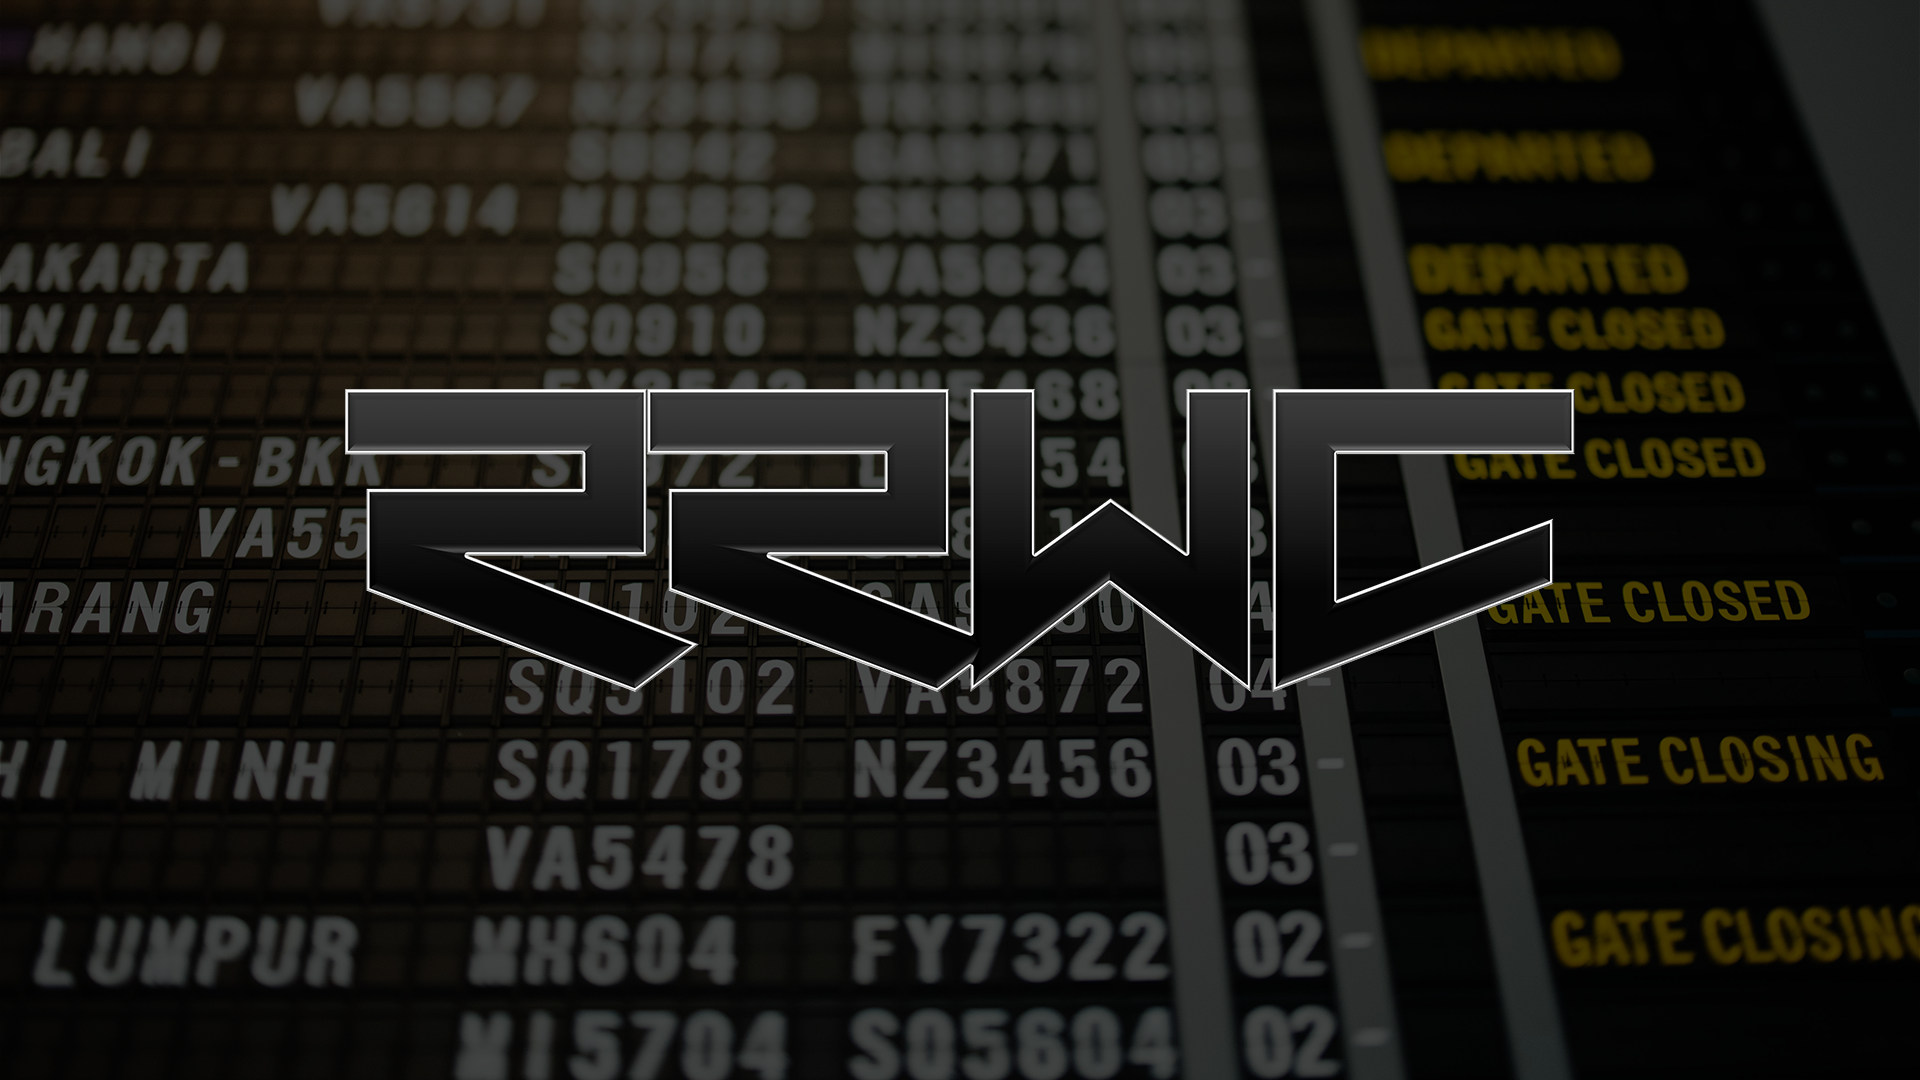
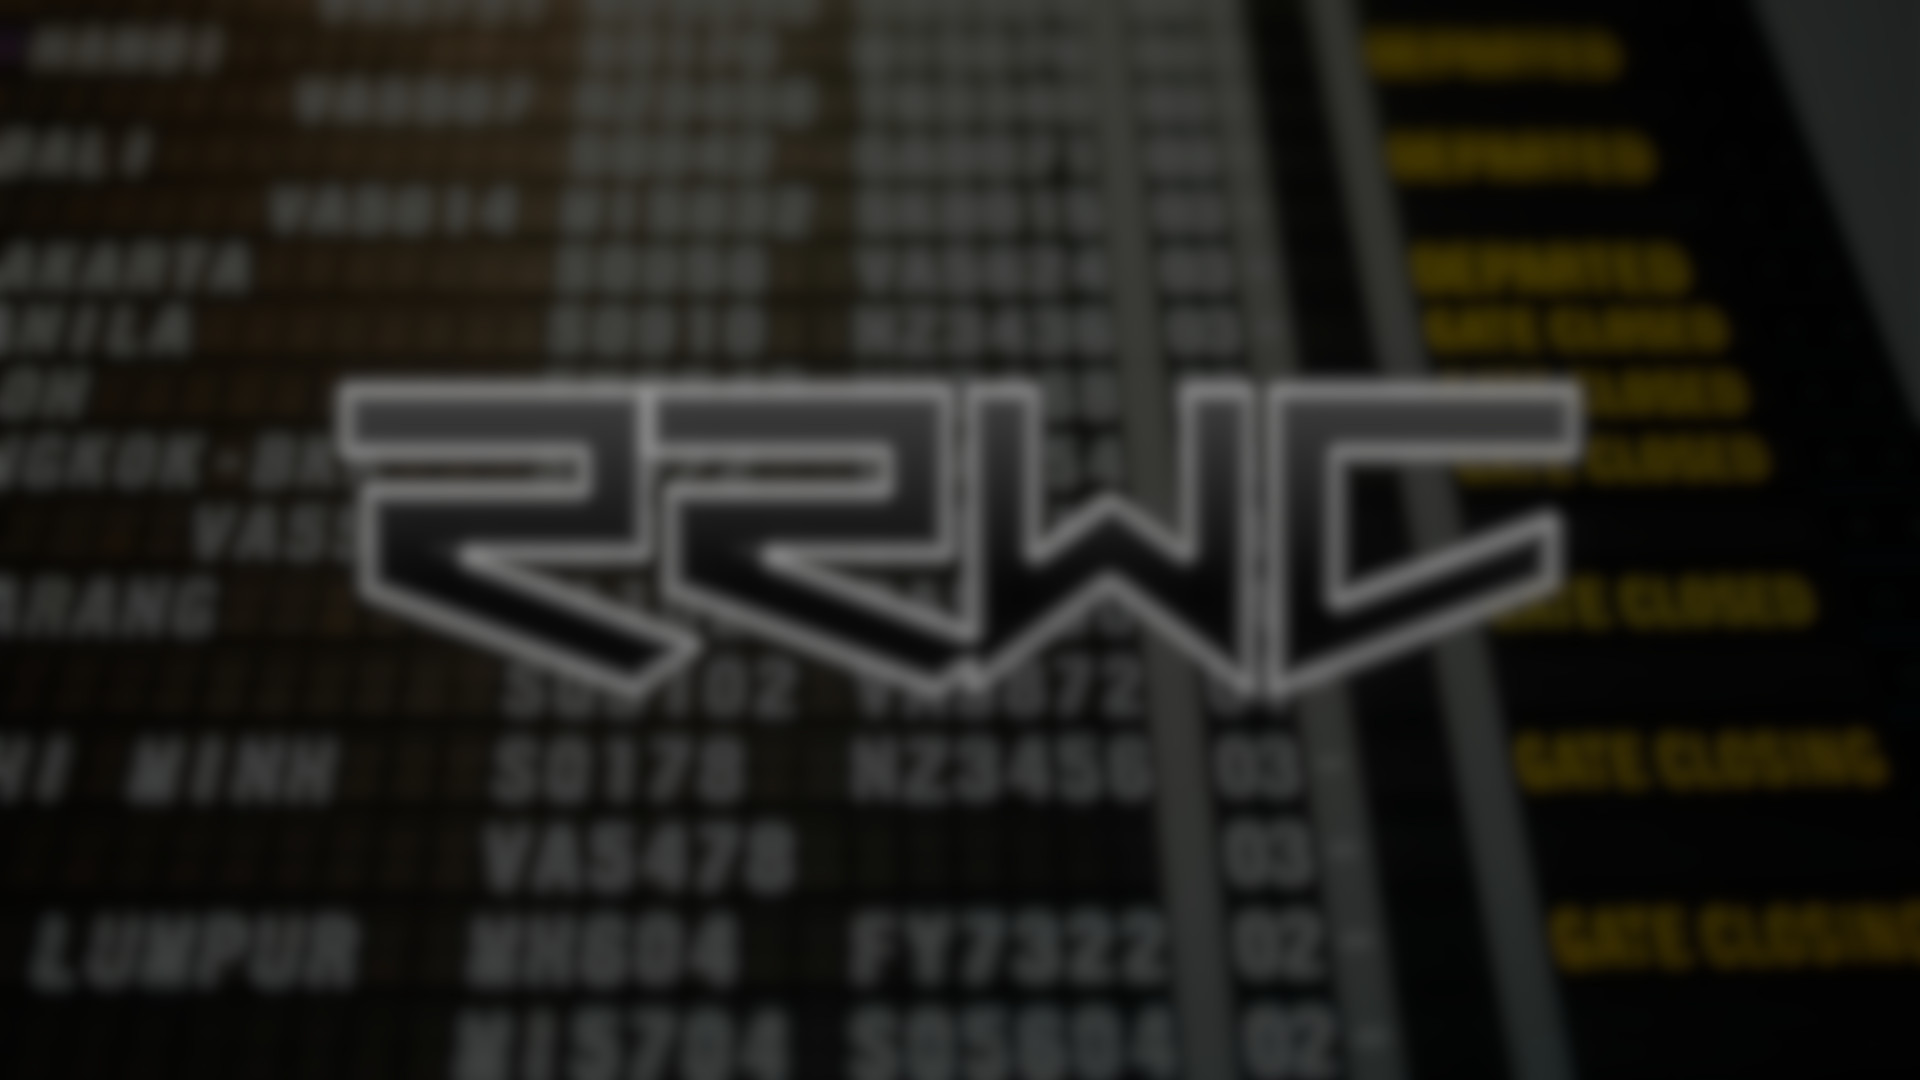
Working front page

diff --git a/html/index.html b/html/index.html
@@ -7,7 +7,7 @@
   <meta name="viewport" content="width=device-width, initial-scale=1, maximum-scale=1, user-scalable=no, minimal-ui">
   <style>
     #app {
-        background-image: url("./background_blured.jpg");
+        background-image: url("./background.jpg");
         background-repeat: no-repeat;
         background-position: center;
         background-size: cover;
@@ -39,21 +39,22 @@
                                     <v-tab v-bind="attrs" v-on="on">Tournament Statistics</v-tab>
                                   </template>
                                   <v-list>
-                                    <v-list-item href="https://google.com">
+                                    <v-list-item v-for="comp in competitions" :href="comp.hitmapsStatsURL" target="_blank" :key="comp.tag">
                                       <v-list-item-icon><v-icon>mdi-open-in-new</v-icon></v-list-item-icon>
-                                      <v-list-item-title>RRWC 2021</v-list-item-title>
+                                      <v-list-item-title>{{ comp.tag }}</v-list-item-title>
                                     </v-list-item>
                                   </v-list>
                                 </v-menu>
                             </v-tabs>
                         </v-card-title>
                         <v-card-text>
-                            <v-combobox :menu-props="menuProps" v-model="playerNameInput" :items="players" :search-input.sync="playerSearch" label="Player"></v-combobox>
-                            <v-btn
-                            color="primary"
-                            elevation="2"
-                            outlined
-                            >Search</v-btn>
+                          <v-combobox :menu-props="menuProps" :items="players" :search-input.sync="playerSearch" label="Player" @keyup="search"></v-combobox>
+                          <v-btn
+                          color="primary"
+                          elevation="2"
+                          outlined
+                          @click="searchButton"
+                          >Search</v-btn>
                         </v-card-text>
                     </v-card>
                 </v-col>
@@ -69,29 +70,39 @@
 
   <script src="https://cdn.jsdelivr.net/npm/vue@2.x/dist/vue.js"></script>
   <script src="https://cdn.jsdelivr.net/npm/vuetify@2.x/dist/vuetify.js"></script>
+  <script src="https://cdn.jsdelivr.net/npm/axios/dist/axios.min.js"></script>
   <script>
-    let vue =new Vue({
+    let vue = new Vue({
       el: '#app',
       vuetify: new Vuetify({theme: { dark: true }}),
       data () {
           return {
-            players: ["In4Fun", "CurryMaker"],
-            playerNameInput: "",
+            players: [],
             tabSelected: 0,
-            playerSearch: null
+            playerSearch: null,
+            competitions: []
           }
       },
       methods: {
-          customFilter (item, queryText, itemText) {
-            if(queryText == "") {
-                return false;
+          search: (val) => {
+            if(val.keyCode === 13) {
+                window.location.href = "/" + vue.playerSearch;
             }
-            return itemText.indexOf(queryText) >= 0;
+          },
+          searchButton: () => {
+            window.location.href = "/" + vue.playerSearch;
           }
       },
       watch: {
           tabSelected: (val) => {
-              console.log(val);
+              switch(val) {
+                case 1:
+                  window.location.href = "/leaderboards"
+                  break;
+                case 2:
+                  window.location.href = "/records"
+                  break;
+              }
               vue.$nextTick(() => {
                 vue.tabSelected = 0;
               })
@@ -101,6 +112,11 @@
         menuProps() {
           return !this.playerSearch ? {value: false} : {}
         }
+      },
+      async created() {
+        let frontpageData = await axios.get("/frontpageInfo");
+        this.players = frontpageData.data.players;
+        this.competitions = frontpageData.data.competitions;
       }
     })
   </script>

diff --git a/src/dataHandling/frontend.ts b/src/dataHandling/frontend.ts
@@ -3,9 +3,14 @@ import { RRCompetitionModel } from '../models/Competitions';
 import { RRMatchModel } from '../models/Match';
 import { RRPlayerModel } from '../models/Player';
 
-export async function getAllPlayers(): Promise<object[]> {
-    let players = await RRPlayerModel.find({ excludedFromSearch: { $ne: true } }).exec();
-    return players.map(el => { return {title: el.primaryName} });
+export async function getAllPlayers(): Promise<string[]> {
+    let players = await RRPlayerModel.find({ excludedFromSearch: { $ne: true } }, {primaryName: true}).exec();
+    return players.map((e) => {return e.primaryName});
+}
+
+export async function getAllCompetitions(): Promise<object[]> {
+    let competitions = await RRCompetitionModel.find({}, {tag: true, hitmapsStatsURL: true}).exec();
+    return competitions;
 }
 
 export async function getPlayer(name: string): Promise<object> {
@@ -32,7 +37,10 @@ export async function getPlayer(name: string): Promise<object> {
         return new Date(b.timestamp).getTime() - new Date(a.timestamp).getTime()
     })
 
-    const competitions = await RRCompetitionModel.find({"placements.playerId": playerInfo._id}, { name: true, placements: { $elemMatch: { playerId: playerInfo._id } } }).exec();
+    let competitions = [];
+    if (playerInfo !== null) {
+        competitions = await RRCompetitionModel.find({"placements.playerId": playerInfo._id}, { name: true, placements: { $elemMatch: { playerId: playerInfo._id } } }).exec();
+    }
 
     return {
         avatar: await getDiscordProfilePictureURL(playerInfo?.discordId || ""),

diff --git a/src/routes.ts b/src/routes.ts
@@ -1,4 +1,4 @@
-import { getAllPlayers, getPlayer } from './dataHandling/frontend';
+import { getAllCompetitions, getAllPlayers, getPlayer } from './dataHandling/frontend';
 import { getLeaderboardStat } from './dataHandling/leaderboards';
 import { getRecords } from './dataHandling/records';
 
@@ -91,11 +91,14 @@ const addRoutes = (server) => {
 
     server.route({
         method: 'GET',
-        path: '/allPlayers.js',
+        path: '/frontpageInfo',
         handler: async (request, h) => {
             if(maintenanceMode) return "This? This is maintenance.";
-            request.log(['get', 'info'], '/allPlayers.js');
-            return "const players = " + JSON.stringify(await getAllPlayers()) + ";";
+            request.log(['get', 'info'], '/frontpageInfo');
+            return {
+                players: await getAllPlayers(),
+                competitions: await getAllCompetitions()
+            }
         }
     })
 
